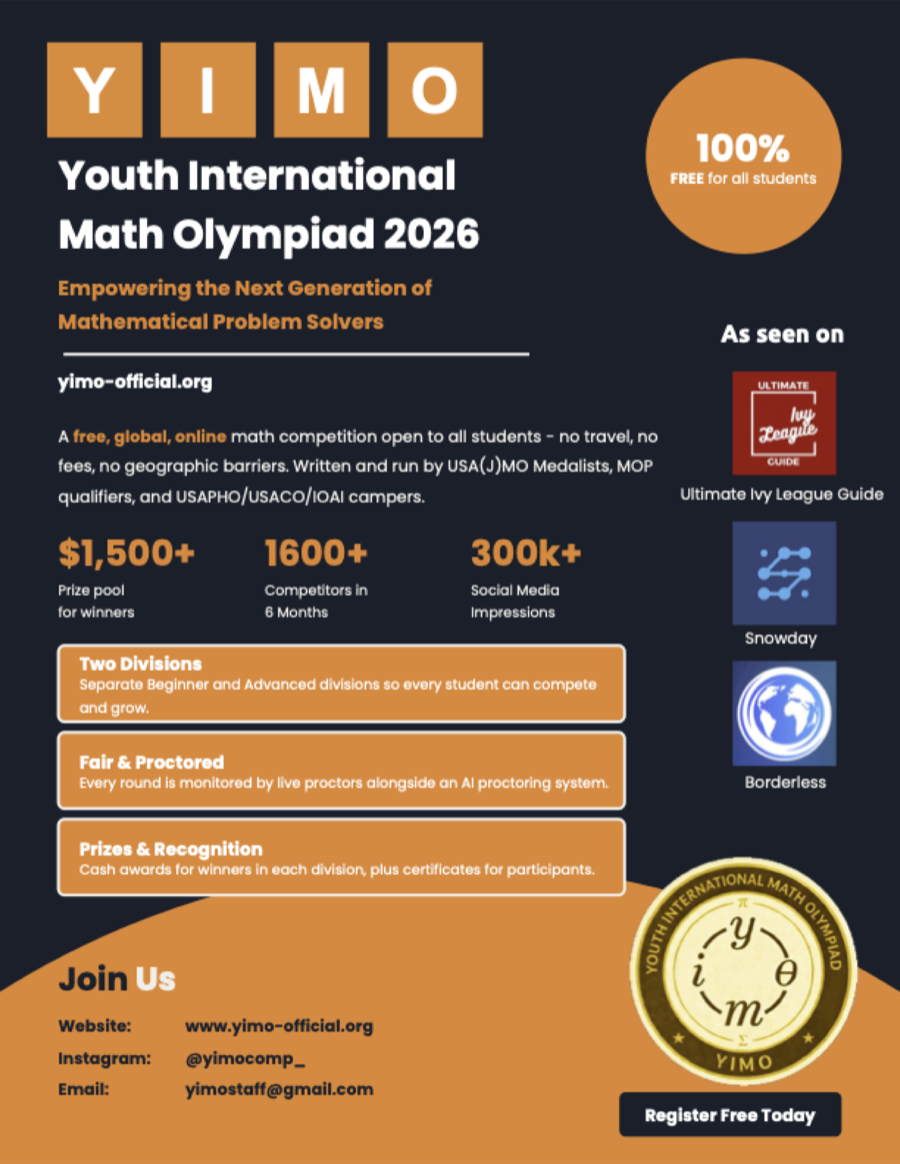
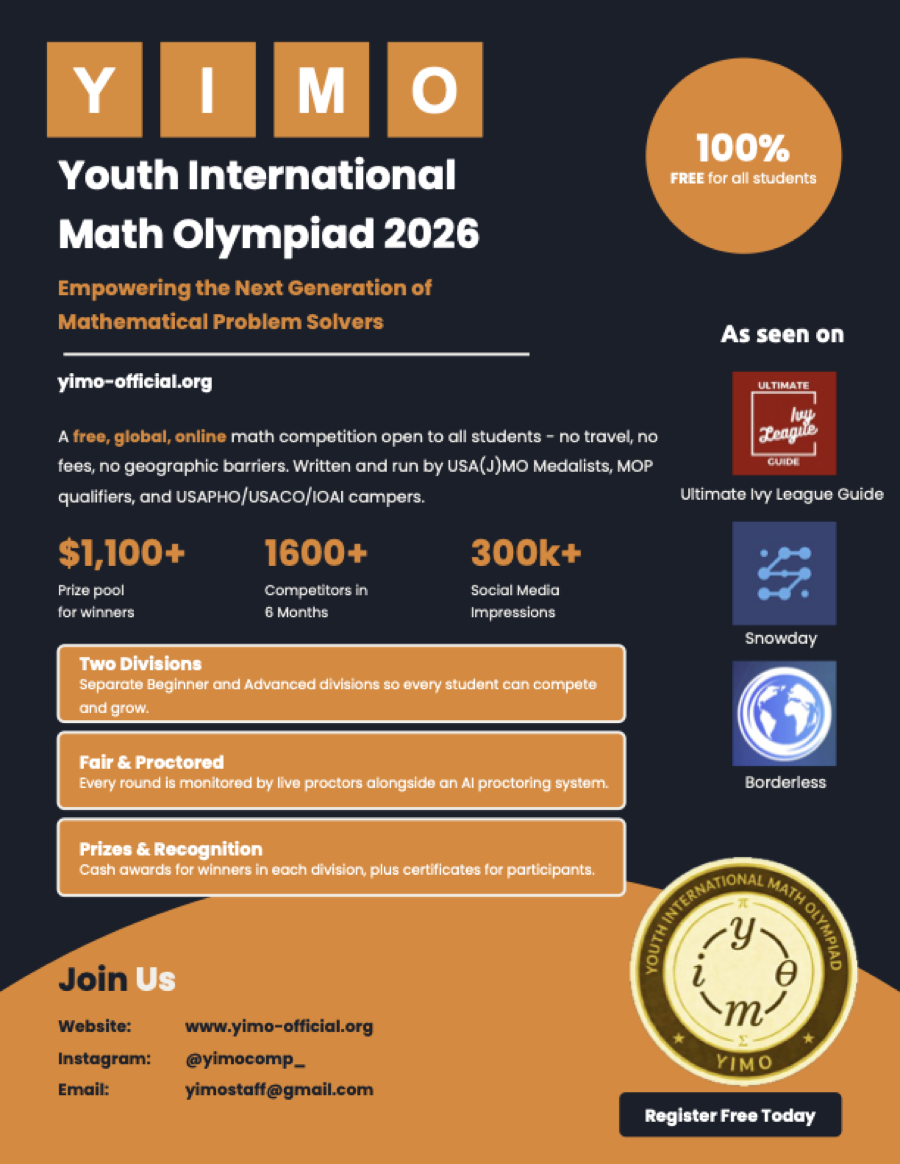
update

diff --git a/pages/index.vue b/pages/index.vue
@@ -87,7 +87,7 @@
       <div class="band-heading">
         <h2>Prizes</h2>
         <p class="format-lead">
-          Over $1,500 in prizes is available for YIMO II, awarded across both
+          Over $1,100 in prizes is available for YIMO II, awarded across both
           divisions.
         </p>
       </div>
@@ -103,7 +103,7 @@
       <div class="prize-grid">
         <div class="level-card">
           <p>Prize pool</p>
-          <h3>$1,500+</h3>
+          <h3>$1,100+</h3>
           <span>Available for YIMO II, split across Division 1 and Division 2.</span>
         </div>
         <div class="level-card">
